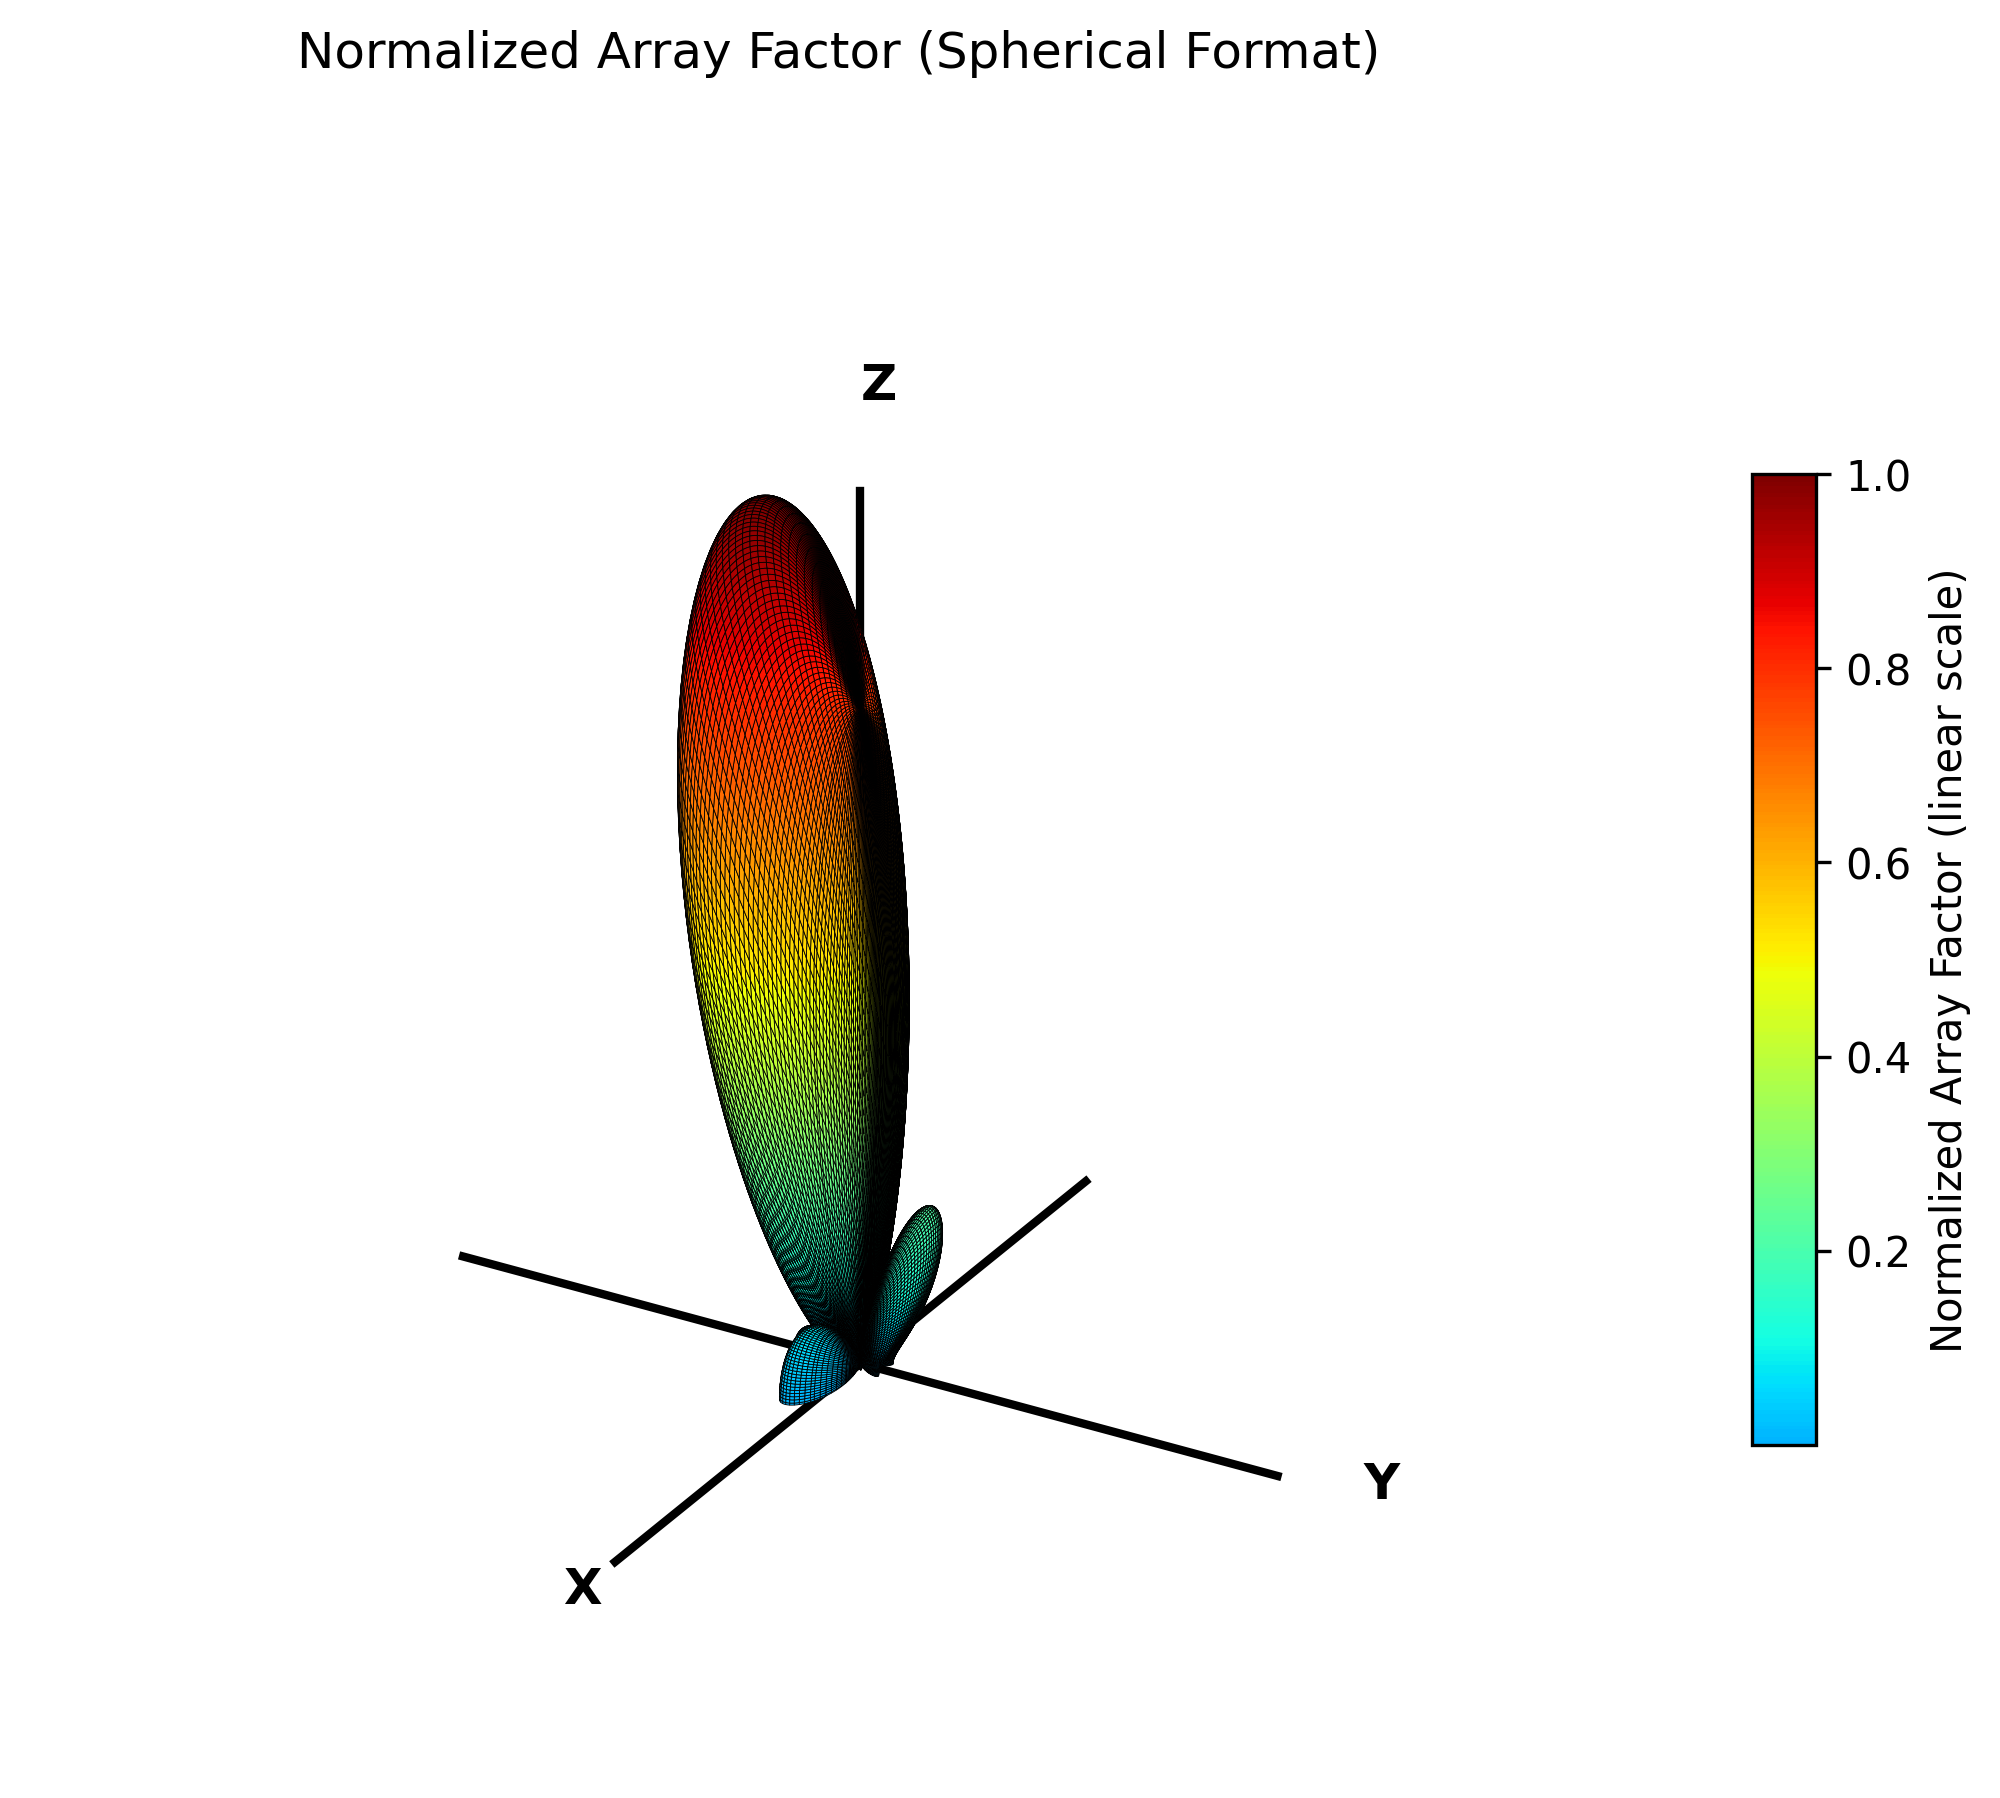
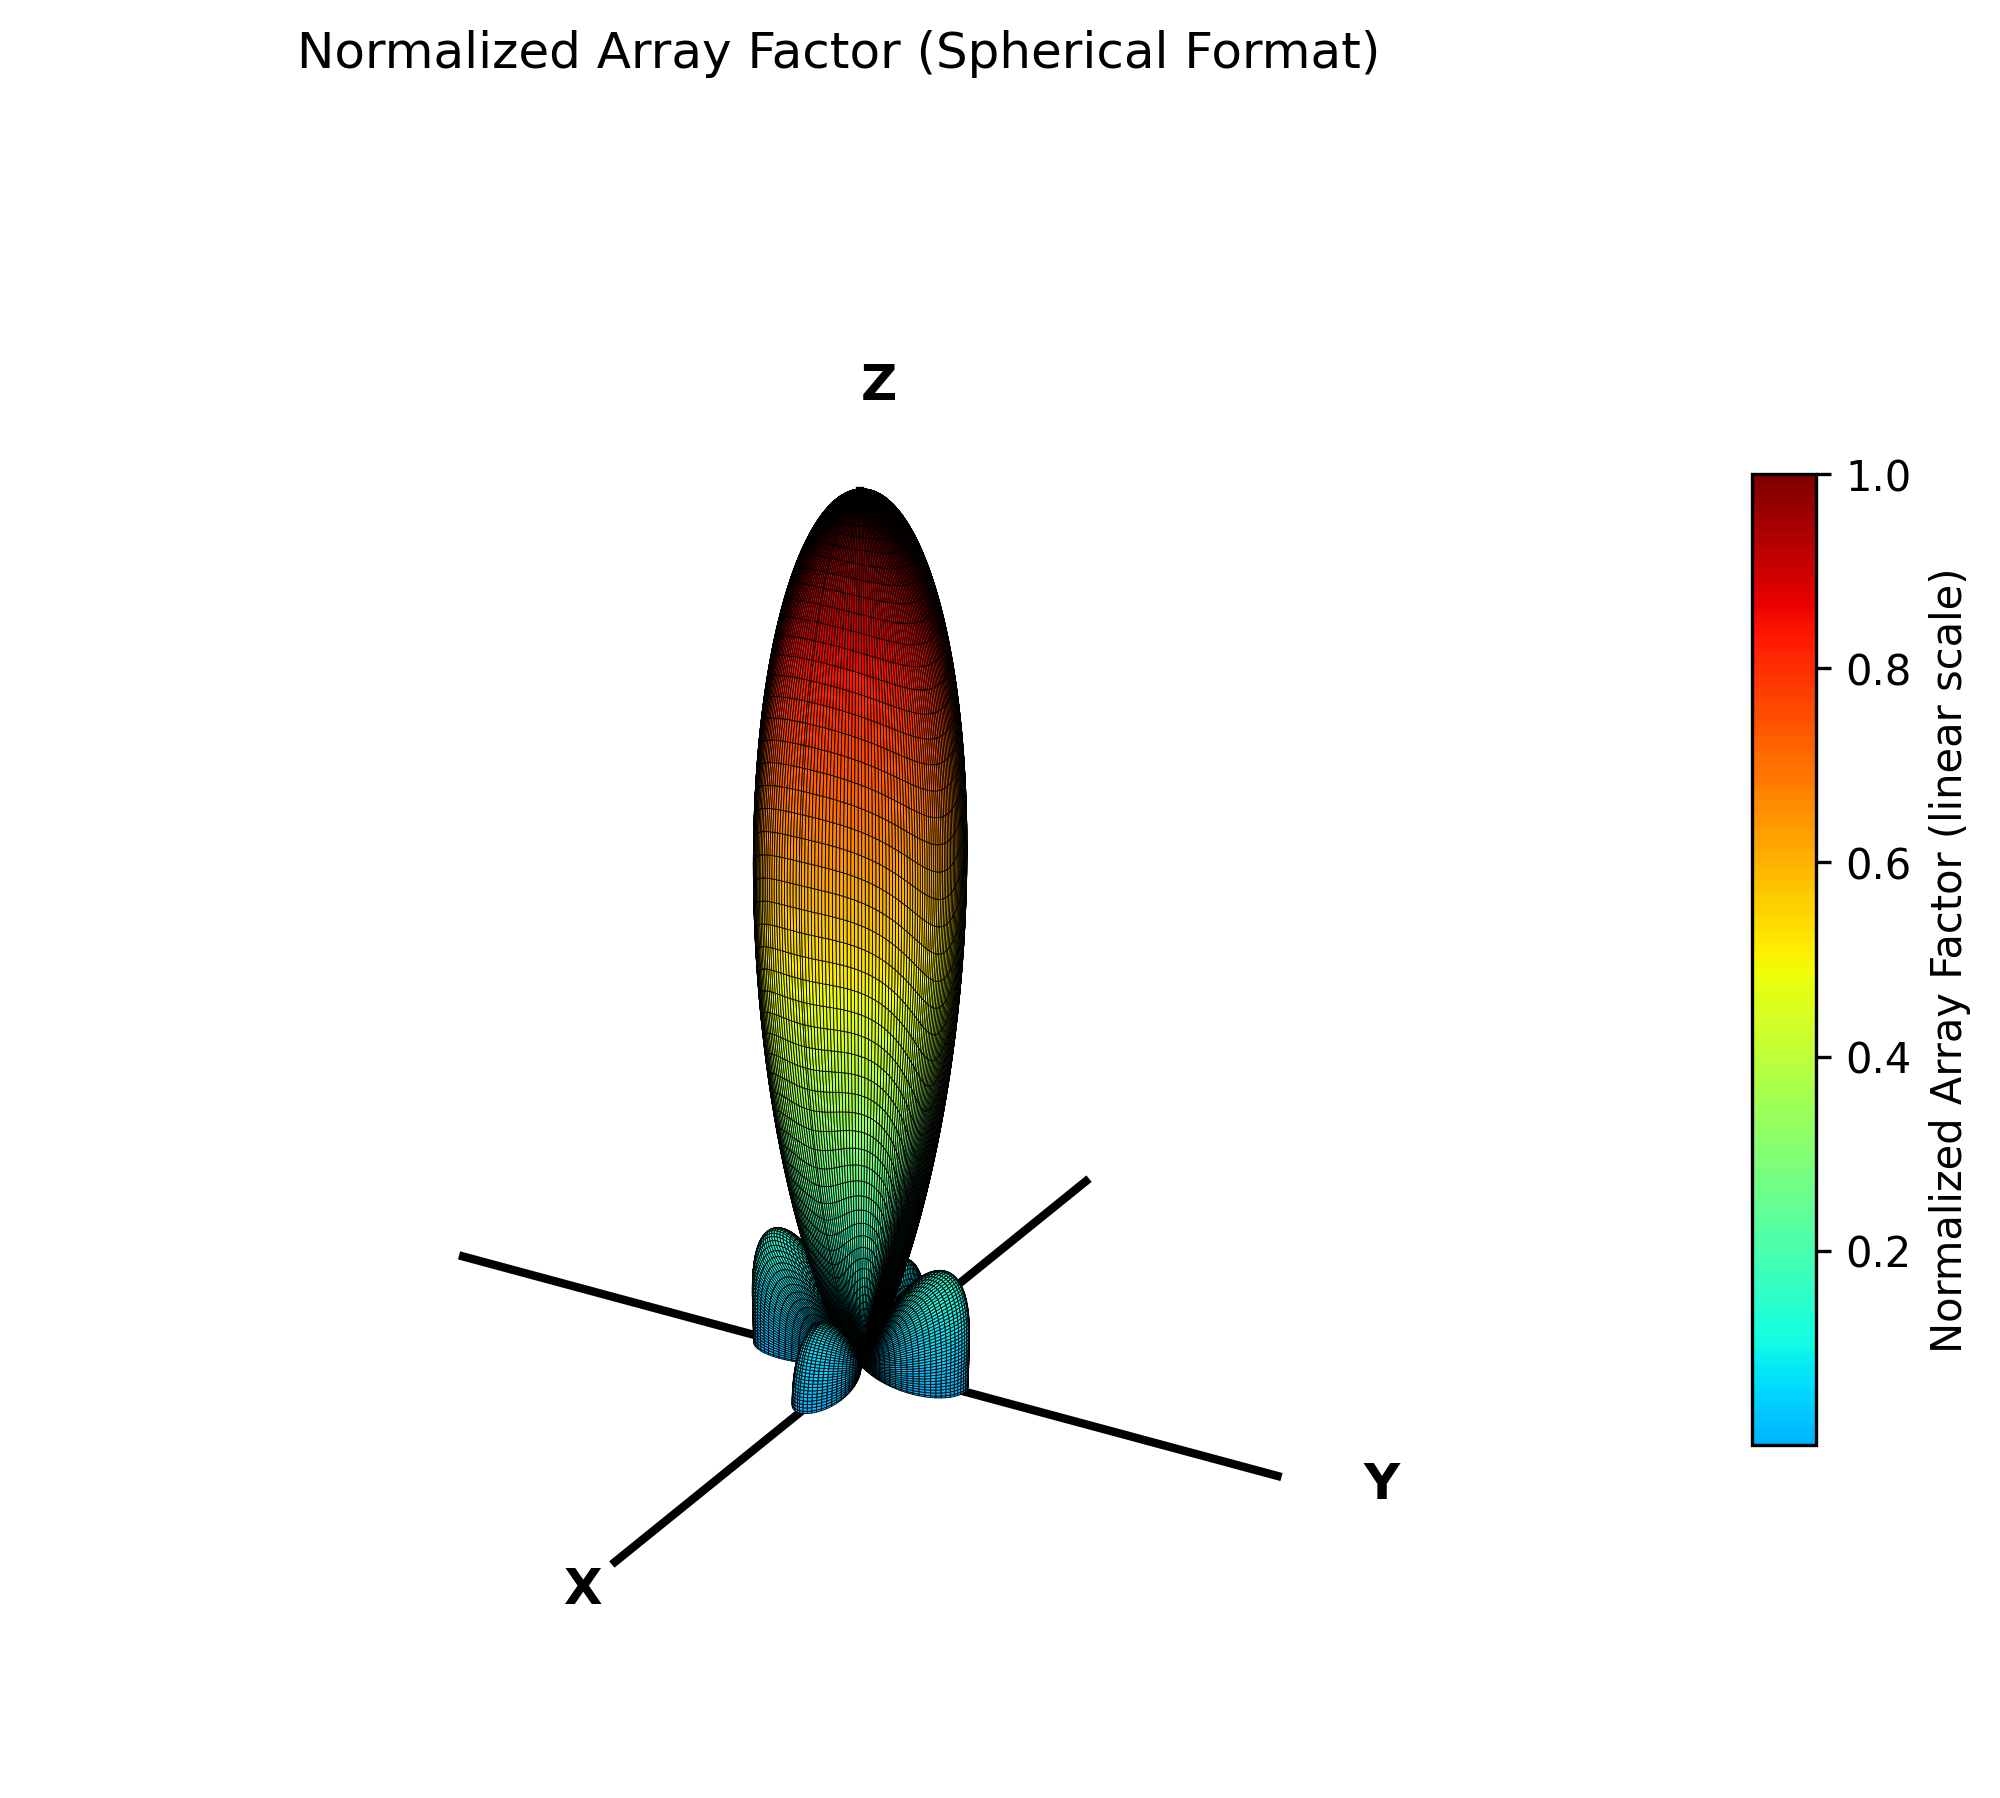
experimented, with receive code

Changed region(s): [[0.341, 0.2803, 0.496, 0.7786]]

diff --git a/GUI/main.py b/GUI/main.py
@@ -1438,21 +1438,17 @@ def beam_page():
             async def scan_task():
                 # Launch the scan as an async background task
                 tx()
-                # warm up transmit 
-                asyncio.sleep(0.01)
                 # clear receive buffer 
-                for _ in range(10): 
-                    discard_buffer()   
-
                 n_steps = len(DEFAULT_RX_GRID)
                 energies = np.zeros(n_steps)
 
                 for i, phases in enumerate(DEFAULT_RX_GRID):
                     send_phases(phases)
-                    #takes about 147us to latch all and settle give it 200us to be safe
-                    await asyncio.sleep(100e-6)  # allow phase to stabilize / UI refresh
-                    discard_buffer()#just in case throw out sample
+                    if i == 0:
+                        for _ in range(10):
+                            discard_buffer()
                     energies[i] = get_energy() #time to sample ~410us
+                    await asyncio.sleep(10e-6)
                     label.set_text(f"Scanning {i+1}/{n_steps}")
 
                 stop_tx()
@@ -1464,8 +1460,6 @@ def beam_page():
                 peak_idx = np.unravel_index(np.argmax(energies_2D), energies_2D.shape)
                 theta_peak = THETA_RANGE[peak_idx[0]]
                 phi_peak = PHI_RANGE[peak_idx[1]]
-
-                r=3#circle radius
 
                 fig, ax = plt.subplots(figsize=(8, 6))
 
@@ -1508,6 +1502,7 @@ def beam_page():
                 dialog.close()
 
             asyncio.create_task(scan_task()) 
+
         ui.button('Start', on_click=Scan_Beam)
 
 

diff --git a/GUI/config.py b/GUI/config.py
@@ -31,8 +31,8 @@ SAMP_RATE = 5e6  # Hz
 TX_GAIN = -5 #dBm
 RX_GAIN =10 #adjust as needed
 #4 ms to fill buffer
-BUFFER_SIZE = 2048 
-NUM_AVG = 4
+BUFFER_SIZE = 4*2048 
+NUM_AVG = 1
 SETTLE_TIME = 1 #time to transmit before capturing burst
 
 #calibration directory
